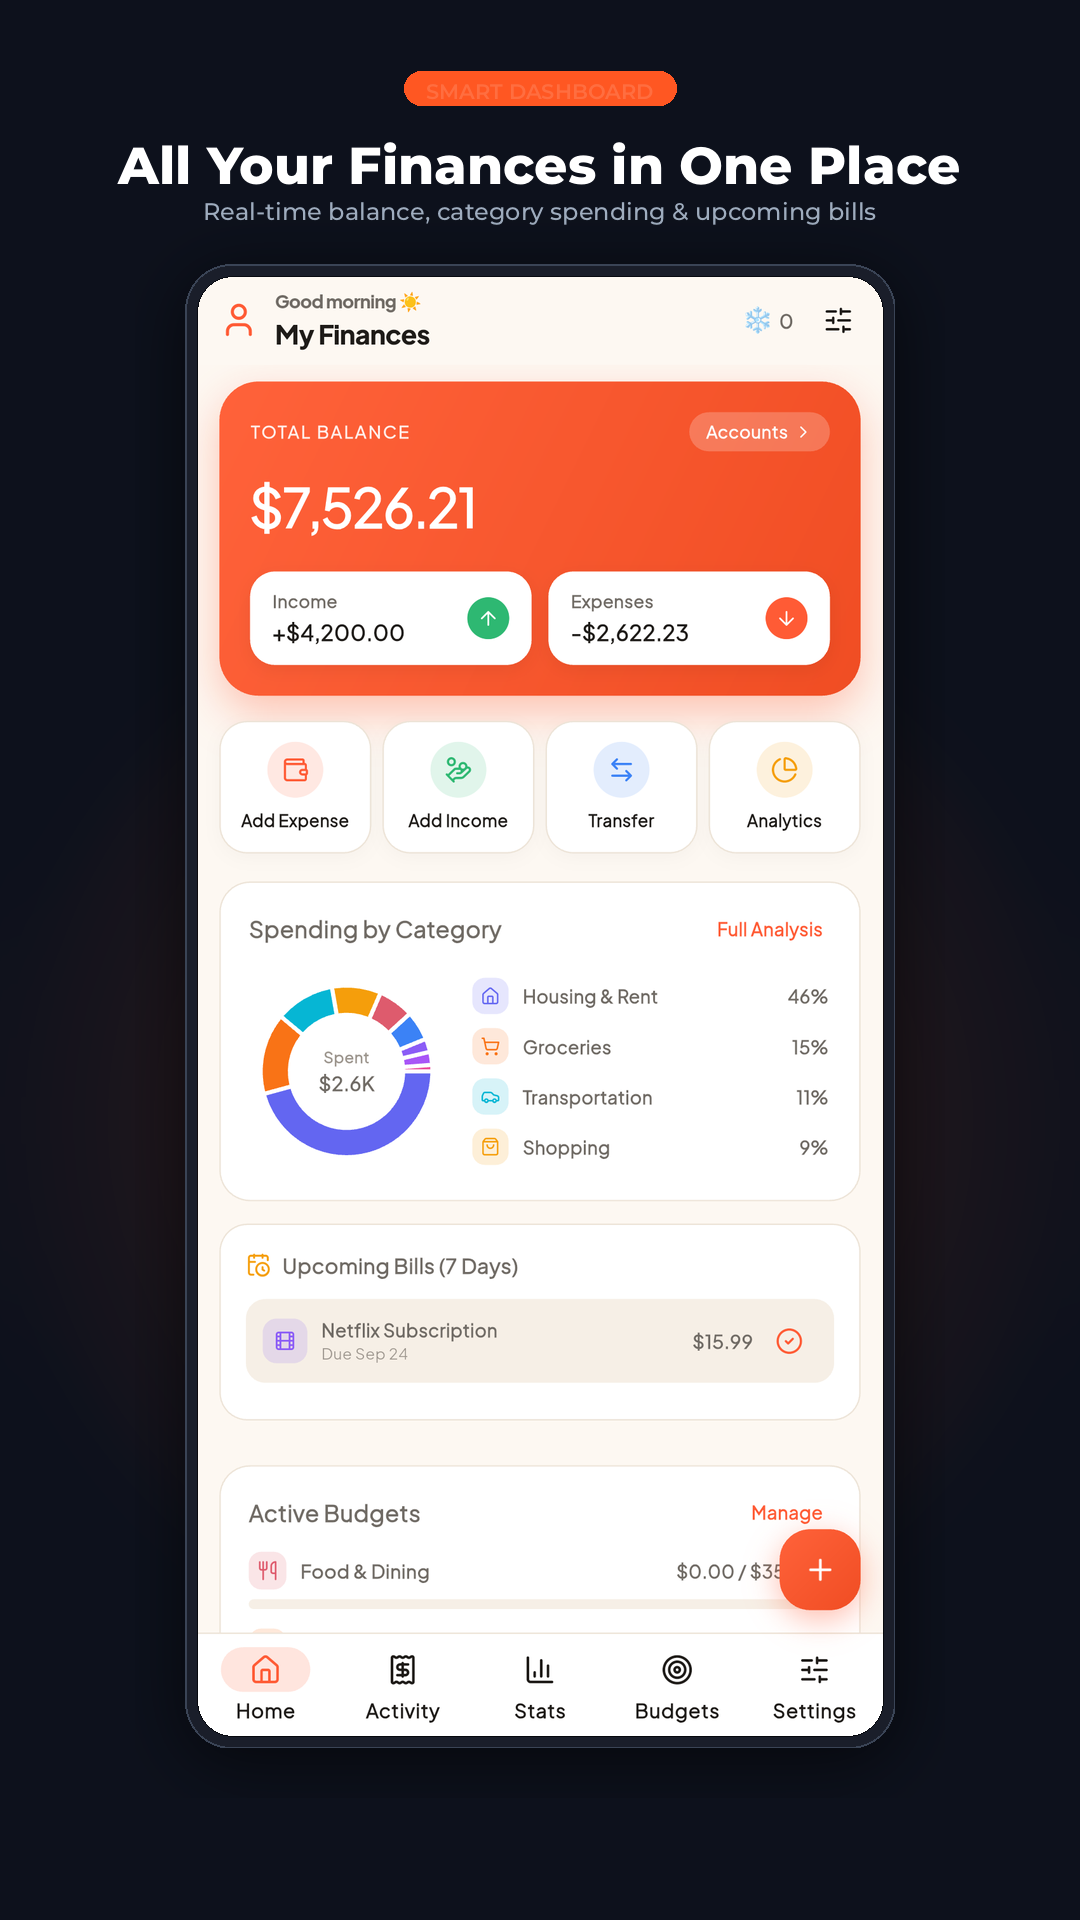
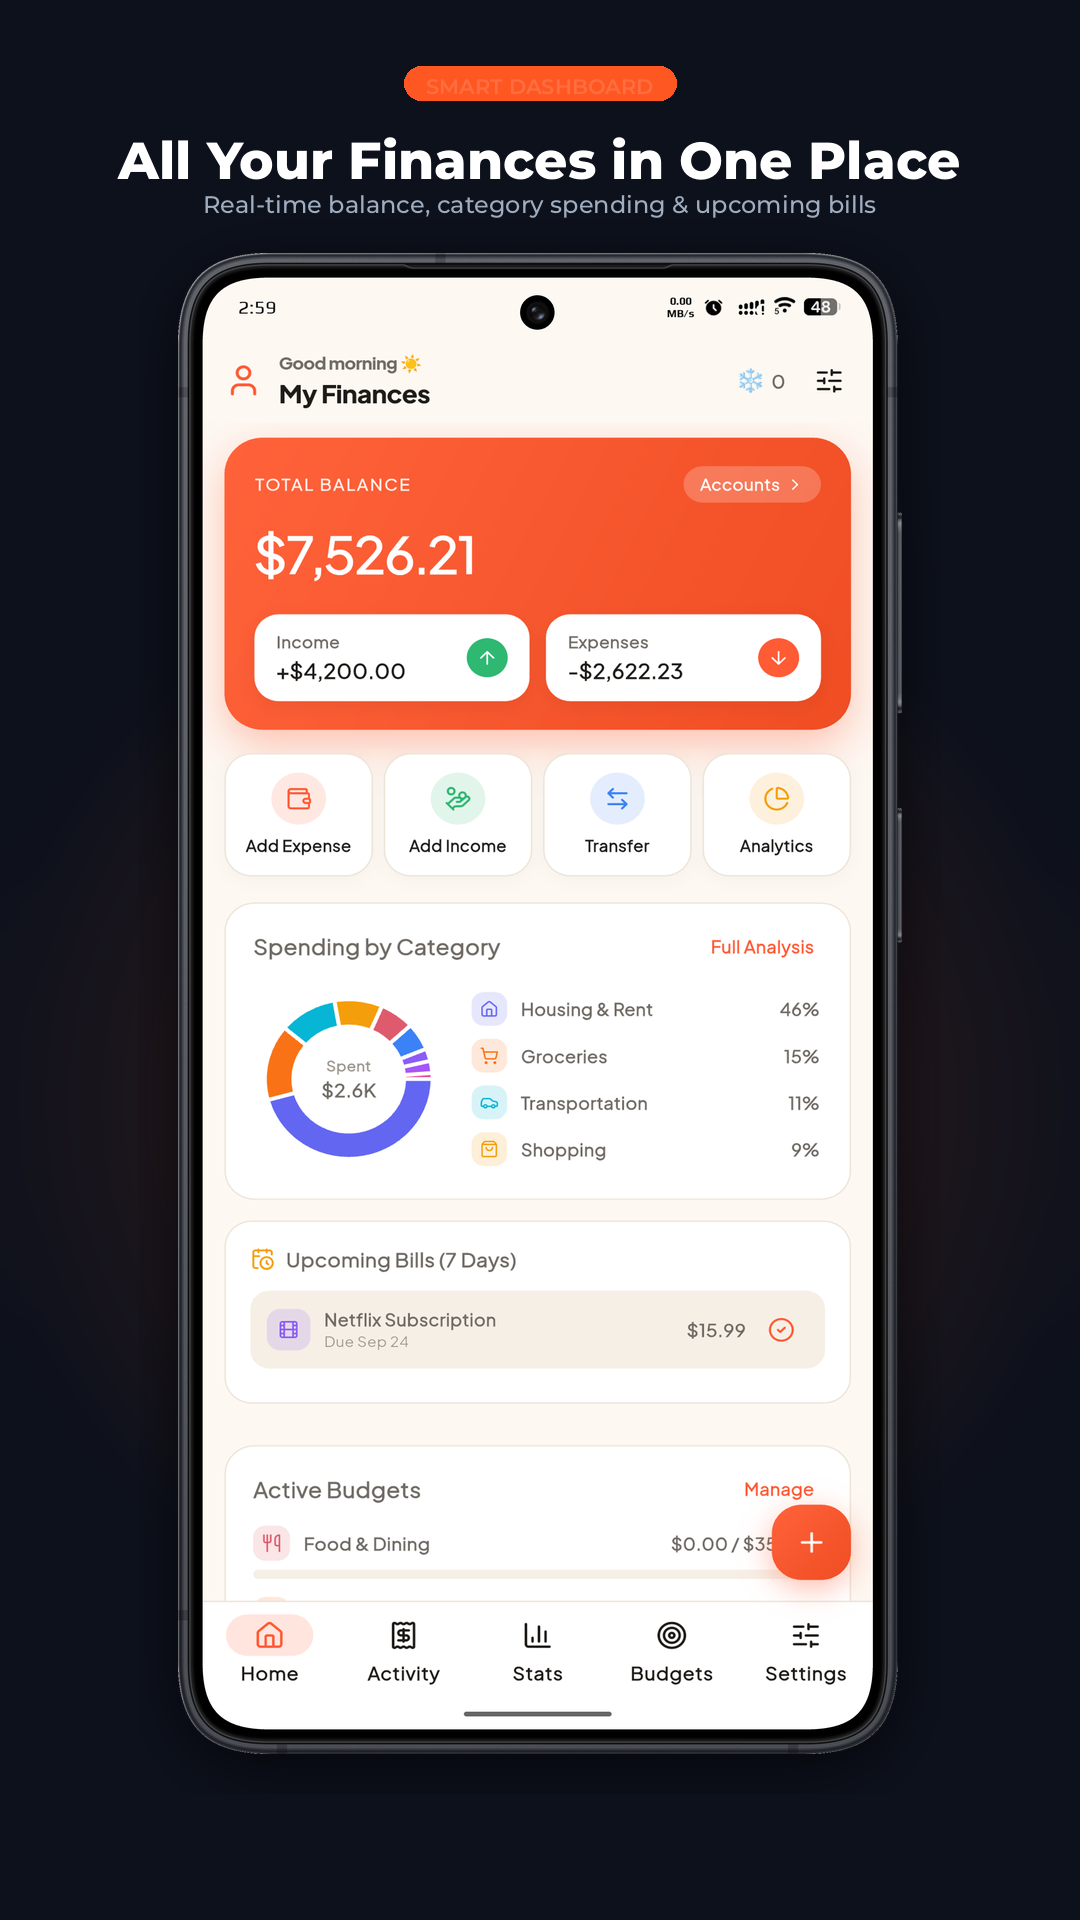
screenshots chaged

Changed region(s): [[0.1528, 0.0312, 0.8861, 0.9375], [0.1222, 0.0625, 0.1528, 0.0938]]

diff --git a/scripts/generate_play_store_screenshots.py b/scripts/generate_play_store_screenshots.py
@@ -2,17 +2,19 @@
 """
 FinTrack - Google Play Store Screenshot Generator
 Generates high-converting, compliant 1080x1920 (16:9) Play Store screenshots
-with modern device framing, glow effects, and marketing copy.
+from phone mockup screenshots, complete with feature badges, typography,
+and ambient glow effects.
 """
 
 import os
 import sys
 from PIL import Image, ImageDraw, ImageFont, ImageFilter
+import numpy as np
+from scipy import ndimage
 
 CANVAS_WIDTH = 1080
 CANVAS_HEIGHT = 1920
 
-# Font paths with fallbacks
 def get_font(weight="bold", size=48):
     font_map = {
         "extrabold": [
@@ -68,16 +70,42 @@ def wrap_text(text, font, max_width):
         lines.append(" ".join(curr))
     return lines
 
+def extract_phone_mockup(img_path):
+    """
+    Isolates the phone mockup from the white border using connected-component
+    labeling so that inner white elements (like buttons or cards) are preserved.
+    """
+    img = Image.open(img_path).convert("RGBA")
+    arr = np.array(img)
+    rgb = arr[:, :, :3]
+    
+    # Check if border is white
+    is_white = np.all(rgb > 250, axis=2)
+    lbl, _ = ndimage.label(is_white)
+    bg_mask = (lbl == lbl[0, 0])
+    
+    # Set background to transparent
+    arr[bg_mask, 3] = 0
+    phone_img = Image.fromarray(arr)
+    
+    # Find bounding box of non-transparent phone
+    mask = (arr[:, :, 3] > 0)
+    rows = np.any(mask, axis=1)
+    cols = np.any(mask, axis=0)
+    if np.any(rows) and np.any(cols):
+        ymin, ymax = np.where(rows)[0][[0, -1]]
+        xmin, xmax = np.where(cols)[0][[0, -1]]
+        return phone_img.crop((xmin, ymin, xmax + 1, ymax + 1))
+    return phone_img
+
 def render_play_store_screenshot(
-    raw_img_path,
+    mockup_img_path,
     output_path,
     tag,
     title,
     subtitle,
     accent_color,
     glow_color,
-    crop_top=105,
-    crop_bottom=55,
 ):
     print(f"Generating: {os.path.basename(output_path)} ...")
     
@@ -87,10 +115,10 @@ def render_play_store_screenshot(
     # 2. Ambient Radial Glow behind Phone
     glow = Image.new("RGBA", (CANVAS_WIDTH, CANVAS_HEIGHT), (0, 0, 0, 0))
     glow_draw = ImageDraw.Draw(glow)
-    cx, cy = CANVAS_WIDTH // 2, 1120
+    cx, cy = CANVAS_WIDTH // 2, 1100
     glow_radius = 580
     for r in range(glow_radius, 0, -8):
-        alpha = int(42 * (1.0 - (r / glow_radius) ** 1.3))
+        alpha = int(44 * (1.0 - (r / glow_radius) ** 1.3))
         glow_draw.ellipse(
             (cx - r, cy - r, cx + r, cy + r),
             fill=(glow_color[0], glow_color[1], glow_color[2], alpha),
@@ -106,7 +134,7 @@ def render_play_store_screenshot(
     tag_h = tag_bbox[3] - tag_bbox[1]
 
     tag_x = (CANVAS_WIDTH - tag_w) // 2
-    tag_y = 80
+    tag_y = 75
     pad_h, pad_v = 22, 9
 
     pill_rect = (
@@ -140,7 +168,7 @@ def render_play_store_screenshot(
     f_sub = get_font("medium", 24)
     sub_lines = wrap_text(subtitle, f_sub, CANVAS_WIDTH - 160)
 
-    sub_y = title_y + 8
+    sub_y = title_y + 6
     for sline in sub_lines:
         s_bbox = f_sub.getbbox(sline)
         sw = s_bbox[2] - s_bbox[0]
@@ -148,66 +176,27 @@ def render_play_store_screenshot(
         draw.text((sx, sub_y), sline, font=f_sub, fill=(160, 174, 192, 255))
         sub_y += (s_bbox[3] - s_bbox[1]) + 8
 
-    # 6. Device Mockup Frame (Fully framed)
-    raw = Image.open(raw_img_path).convert("RGBA")
-    cropped = raw.crop((0, crop_top, raw.width, raw.height - crop_bottom))
-
-    phone_w = 710
-    aspect = cropped.height / cropped.width
-    bezel = 12
-    screen_w = phone_w - (bezel * 2)
-    screen_h = int(screen_w * aspect)
-    phone_h = screen_h + (bezel * 2)
-
+    # 6. Phone Mockup Placement
+    phone = extract_phone_mockup(mockup_img_path)
+    
+    phone_w = 724
+    aspect = phone.height / phone.width
+    phone_h = int(phone_w * aspect)
+    
+    resized_phone = phone.resize((phone_w, phone_h), Image.Resampling.LANCZOS)
     phone_x = (CANVAS_WIDTH - phone_w) // 2
-    phone_y = sub_y + 36
+    phone_y = sub_y + 32
 
-    resized_screen = cropped.resize((screen_w, screen_h), Image.Resampling.LANCZOS)
+    # Soft Drop Shadow under phone
+    shadow_pad = 40
+    s_layer = Image.new("RGBA", (phone_w + shadow_pad * 2, phone_h + shadow_pad * 2), (0, 0, 0, 0))
+    phone_alpha = resized_phone.split()[3]
+    s_layer.paste((0, 0, 0, 160), (shadow_pad, shadow_pad + 14), phone_alpha)
+    s_layer = s_layer.filter(ImageFilter.GaussianBlur(28))
+    canvas.paste(s_layer, (phone_x - shadow_pad, phone_y - shadow_pad), s_layer)
 
-    # Rounded Corner Screen Mask
-    screen_mask = Image.new("L", (screen_w, screen_h), 0)
-    mask_draw = ImageDraw.Draw(screen_mask)
-    mask_draw.rounded_rectangle((0, 0, screen_w, screen_h), radius=36, fill=255)
-
-    # Soft Drop Shadow Layer
-    shadow_pad = 50
-    shadow_img = Image.new(
-        "RGBA",
-        (phone_w + shadow_pad * 2, phone_h + shadow_pad * 2),
-        (0, 0, 0, 0),
-    )
-    s_draw = ImageDraw.Draw(shadow_img)
-    s_draw.rounded_rectangle(
-        (shadow_pad, shadow_pad + 12, shadow_pad + phone_w, shadow_pad + phone_h + 12),
-        radius=46,
-        fill=(0, 0, 0, 150),
-    )
-    shadow_img = shadow_img.filter(ImageFilter.GaussianBlur(32))
-    canvas.paste(shadow_img, (phone_x - shadow_pad, phone_y - shadow_pad), shadow_img)
-
-    # Titanium Phone Bezel
-    phone_body = Image.new("RGBA", (phone_w, phone_h), (0, 0, 0, 0))
-    pb_draw = ImageDraw.Draw(phone_body)
-    pb_draw.rounded_rectangle(
-        (0, 0, phone_w, phone_h),
-        radius=46,
-        fill=(26, 30, 42, 255),
-        outline=(58, 68, 86, 255),
-        width=2,
-    )
-
-    # Paste the clipped screen inside bezel
-    phone_body.paste(resized_screen, (bezel, bezel), screen_mask)
-
-    # Subtle inner border
-    pb_draw.rounded_rectangle(
-        (bezel, bezel, bezel + screen_w, bezel + screen_h),
-        radius=36,
-        outline=(0, 0, 0, 40),
-        width=1,
-    )
-
-    canvas.paste(phone_body, (phone_x, phone_y), phone_body)
+    # Paste phone mockup
+    canvas.paste(resized_phone, (phone_x, phone_y), resized_phone)
 
     # Convert to 24-bit RGB (strict Google Play requirement: no alpha)
     final_rgb = canvas.convert("RGB")
@@ -222,7 +211,7 @@ def main():
 
     configs = [
         {
-            "raw": "home.png",
+            "raw": "home.PNG",
             "out": "01_dashboard.png",
             "tag": "SMART DASHBOARD",
             "title": "All Your Finances in One Place",
@@ -231,16 +220,16 @@ def main():
             "glow": (255, 87, 34),
         },
         {
-            "raw": "add_transactions.png",
+            "raw": "add_transaction.PNG",
             "out": "02_quick_add.png",
             "tag": "LIGHTNING FAST",
             "title": "Instant Transaction Entry",
-            "subtitle": "Built-in numeric keypad with smart auto-categorization",
+            "subtitle": "Smart quick entry, built-in keypad & auto-categorization",
             "accent": (129, 140, 248),
             "glow": (99, 102, 241),
         },
         {
-            "raw": "activity.png",
+            "raw": "activity.PNG",
             "out": "03_activity.png",
             "tag": "TRANSACTION HISTORY",
             "title": "Organized Activity Log",
@@ -249,7 +238,7 @@ def main():
             "glow": (16, 185, 129),
         },
         {
-            "raw": "budgets.png",
+            "raw": "budgets.PNG",
             "out": "04_budgets.png",
             "tag": "SMART BUDGETING",
             "title": "Safe-to-Spend & Budgets",
@@ -258,7 +247,7 @@ def main():
             "glow": (20, 184, 166),
         },
         {
-            "raw": "statistics.png",
+            "raw": "statistics.PNG",
             "out": "05_statistics.png",
             "tag": "VISUAL ANALYTICS",
             "title": "Deep Spending Insights",
@@ -267,17 +256,8 @@ def main():
             "glow": (59, 130, 246),
         },
         {
-            "raw": "settings.png",
-            "out": "06_settings.png",
-            "tag": "PRIVATE & OFFLINE-FIRST",
-            "title": "Full Control & Security",
-            "subtitle": "Multi-currency, savings goals & encrypted offline backups",
-            "accent": (251, 191, 36),
-            "glow": (245, 158, 11),
-        },
-        {
-            "raw": "splash.png",
-            "out": "07_branding.png",
+            "raw": "splash.PNG",
+            "out": "06_branding.png",
             "tag": "PERSONAL FINANCE",
             "title": "FinTrack: Master Your Money",
             "subtitle": "Simple, private, and powerful financial tracking for Android",
@@ -291,7 +271,7 @@ def main():
         raw_path = os.path.join(sc_dir, cfg["raw"])
         out_path = os.path.join(out_dir, cfg["out"])
         if not os.path.exists(raw_path):
-            print(f"Warning: Raw screenshot not found: {raw_path}")
+            print(f"Warning: Mockup screenshot not found: {raw_path}")
             continue
         render_play_store_screenshot(
             raw_path,
@@ -303,15 +283,14 @@ def main():
             cfg["glow"],
         )
 
-    # Clean up test artifacts in play_store if present
-    for old in ["01_dashboard_full.png"]:
-        old_p = os.path.join(out_dir, old)
-        if os.path.exists(old_p):
-            os.remove(old_p)
+    # Clean up obsolete files if present
+    for obsolete in ["06_settings.png", "07_branding.png", "01_dashboard_full.png"]:
+        obsolete_p = os.path.join(out_dir, obsolete)
+        if os.path.exists(obsolete_p):
+            os.remove(obsolete_p)
 
     print("\nAll Google Play Store screenshots generated successfully!")
     print(f"Location: {out_dir}")
 
 if __name__ == "__main__":
     main()
-

diff --git a/README.md b/README.md
@@ -29,7 +29,7 @@
 <p align="center">
   <img src="screenshots/play_store/04_budgets.png" width="31%" alt="FinTrack Safe-to-Spend & Budgets" />
   <img src="screenshots/play_store/05_statistics.png" width="31%" alt="FinTrack Analytics & Insights" />
-  <img src="screenshots/play_store/06_settings.png" width="31%" alt="FinTrack Full Control & Privacy" />
+  <img src="screenshots/play_store/06_branding.png" width="31%" alt="FinTrack Brand & Identity" />
 </p>
 
 ---
